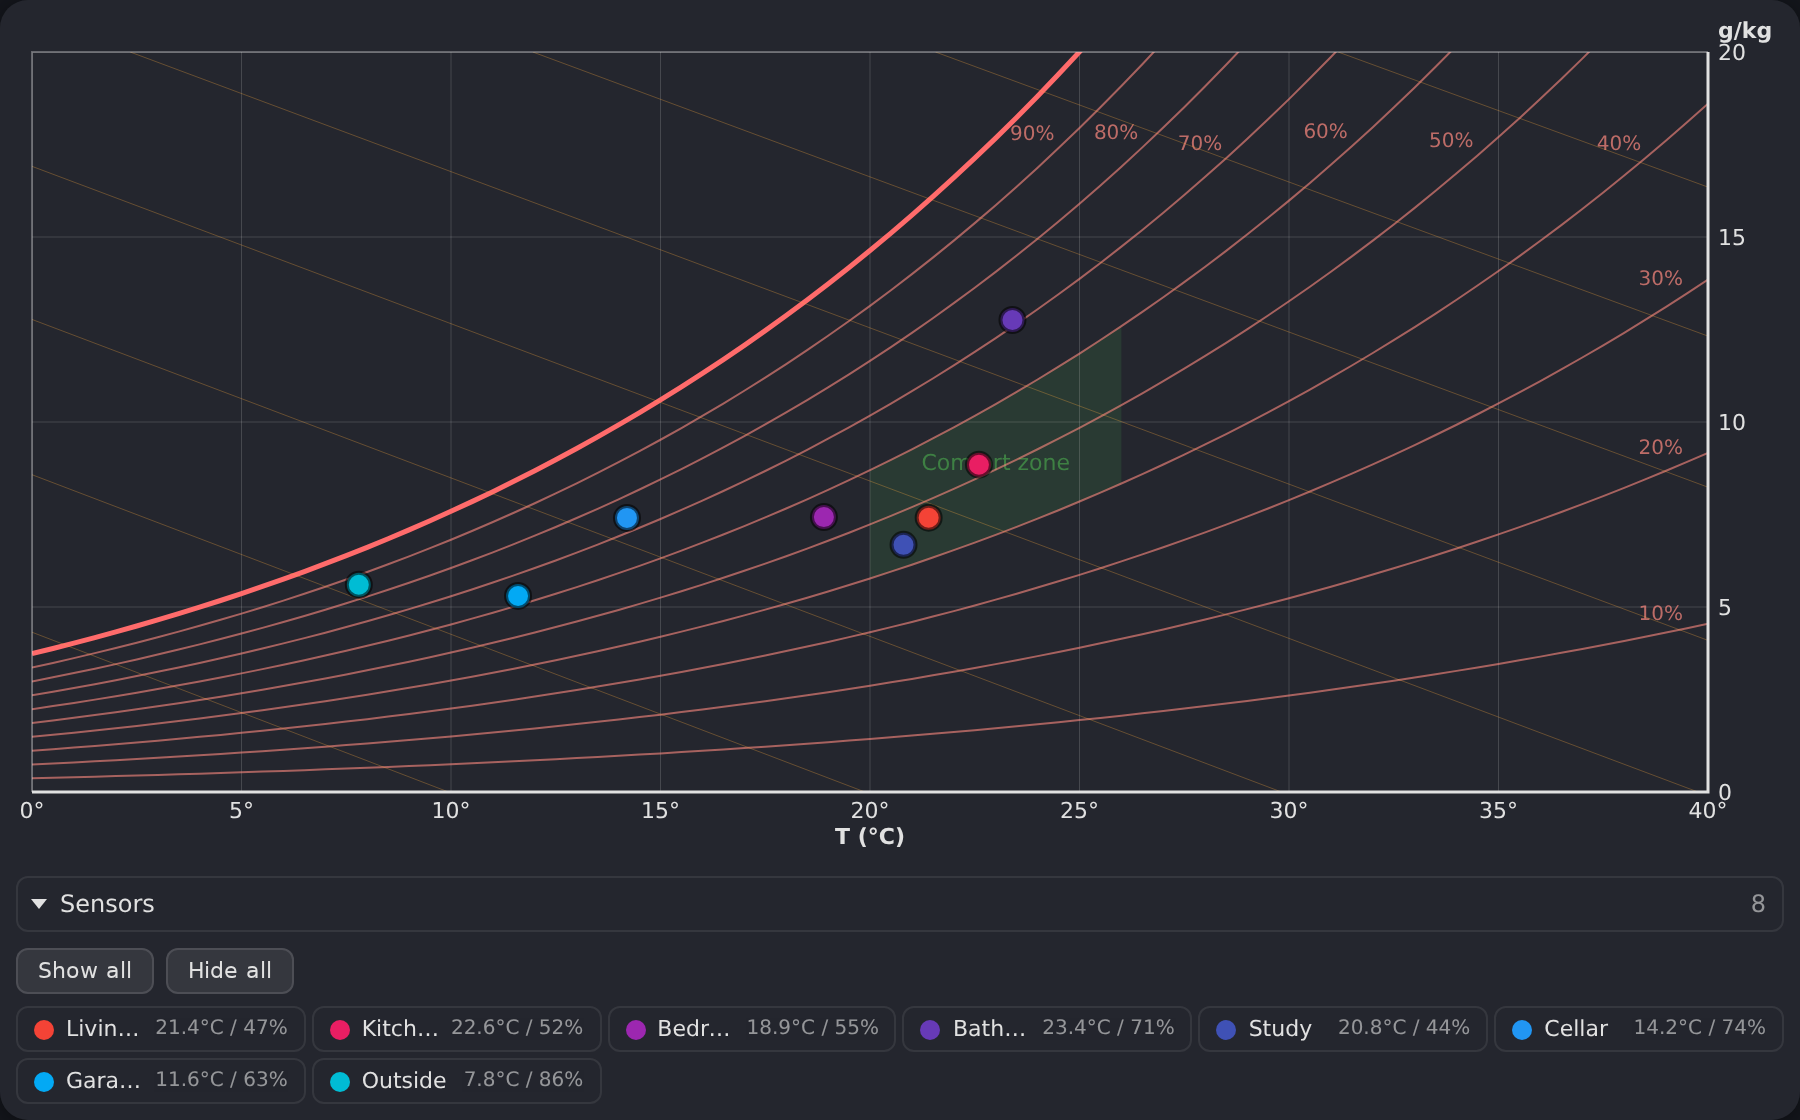
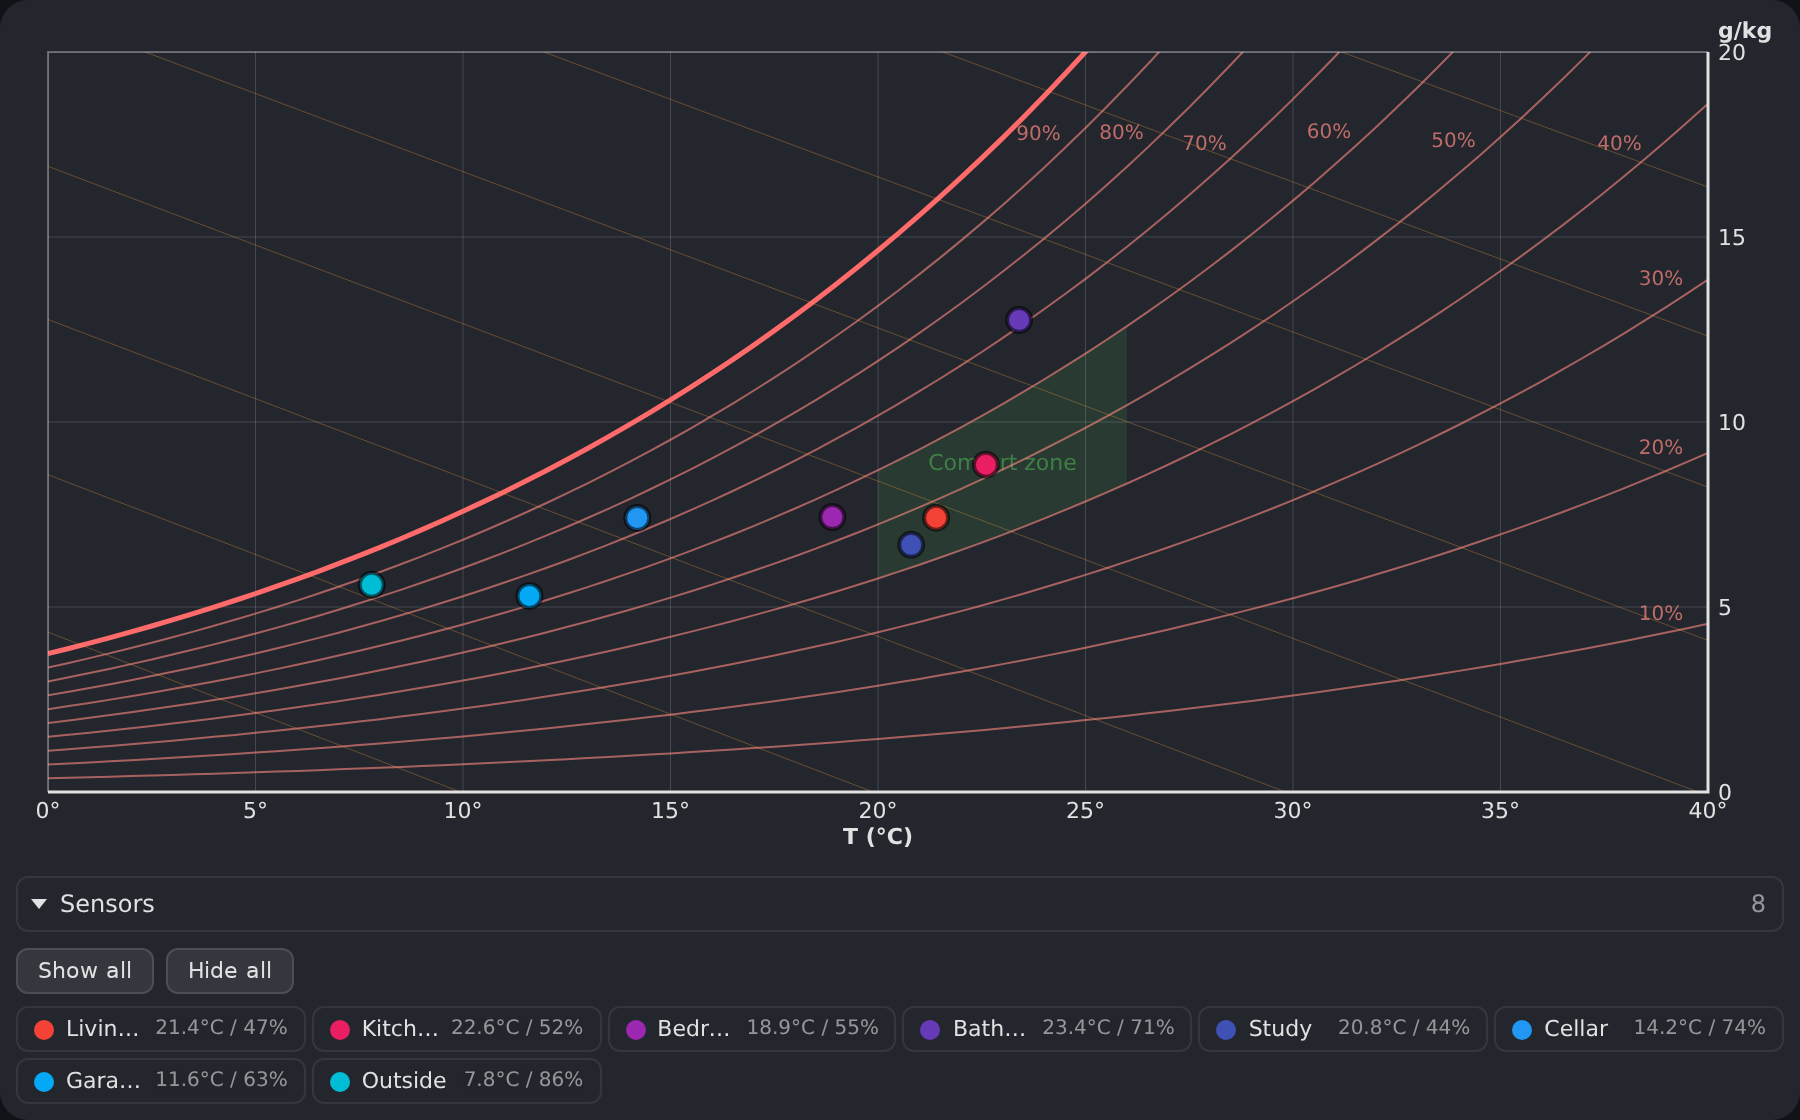
fix: the labels stop colliding, and the first degree fits
Over a wide range the steep curves all reach the top within a few degrees of
each other, and their labels were drawn one on top of the next. A label that
would land on one already placed is dropped instead. The left margin was
narrower than half of '-25', so the first tick was cut by the canvas edge.

tools/demo.html takes the range from the query string, so the crowded case can
be looked at without editing it.

Claude-Session: https://claude.ai/code/session_01Fw3C51JV8FCQt2Ejc5BoVV

diff --git a/dist/psychrometric-card.js b/dist/psychrometric-card.js
@@ -156,7 +156,7 @@ class PsychroChart {
 
     // Room for what is written outside the plot: the unit above the right-hand ticks,
     // the ticks themselves, and under the plot two lines -- degrees, then the axis name.
-    this.margin = { top: 18, right: 38, bottom: 34, left: 8 };
+    this.margin = { top: 18, right: 38, bottom: 34, left: 16 };
     this.logicalWidth = 900;
     this.logicalHeight = config.height || 450;
   }
@@ -275,6 +275,9 @@ class PsychroChart {
   drawHRCurves() {
     const ctx = this.ctx;
     const hrLevels = [10, 20, 30, 40, 50, 60, 70, 80, 90, 100];
+    // Over a wide temperature range the steep curves all reach the top within a few
+    // degrees of each other, and their labels landed one on top of the next.
+    const placed = [];
     for (const hr of hrLevels) {
       const isSat = hr === 100;
       ctx.strokeStyle = isSat ? this.colors.saturation : this.colors.hr_lines;
@@ -305,9 +308,18 @@ class PsychroChart {
           // Right-aligned, so the text runs back along the curve into the plot. Written
           // rightwards it ran off the right edge and got cut by the clip.
           ctx.textAlign = 'right';
-          ctx.globalAlpha = 0.7;
-          ctx.fillText(hr + '%', this.toCanvasX(labelT) - 2, this.toCanvasY(labelR) - 4);
-          ctx.globalAlpha = 1;
+          const text = hr + '%';
+          const x = this.toCanvasX(labelT) - 2;
+          const y = this.toCanvasY(labelR) - 4;
+          const w = ctx.measureText(text).width;
+          const clash = placed.some(
+            (o) => Math.abs(o.y - y) < 11 && x - w < o.x + 3 && o.x - o.w < x + 3);
+          if (!clash) {
+            ctx.globalAlpha = 0.7;
+            ctx.fillText(text, x, y);
+            ctx.globalAlpha = 1;
+            placed.push({ x, y, w });
+          }
         }
       }
     }

diff --git a/tools/demo.html b/tools/demo.html
@@ -80,7 +80,16 @@
   }
 
   const card = document.createElement('psychrometric-card');
-  card.setConfig({ temp_min: 0, temp_max: 40, humidity_max: 20, height: 430, sensors });
+  // The range comes from the query string, so the wide case -- where the steep curves
+  // crowd together -- can be checked without editing the file: demo.html?min=-25
+  const query = new URLSearchParams(location.search);
+  card.setConfig({
+    temp_min: Number(query.get('min') ?? 0),
+    temp_max: Number(query.get('max') ?? 40),
+    humidity_max: Number(query.get('humidity') ?? 20),
+    height: 430,
+    sensors,
+  });
   card.hass = { language: 'en', states, entities: {}, devices: {}, areas: {} };
   document.getElementById('host').appendChild(card);
 </script>
